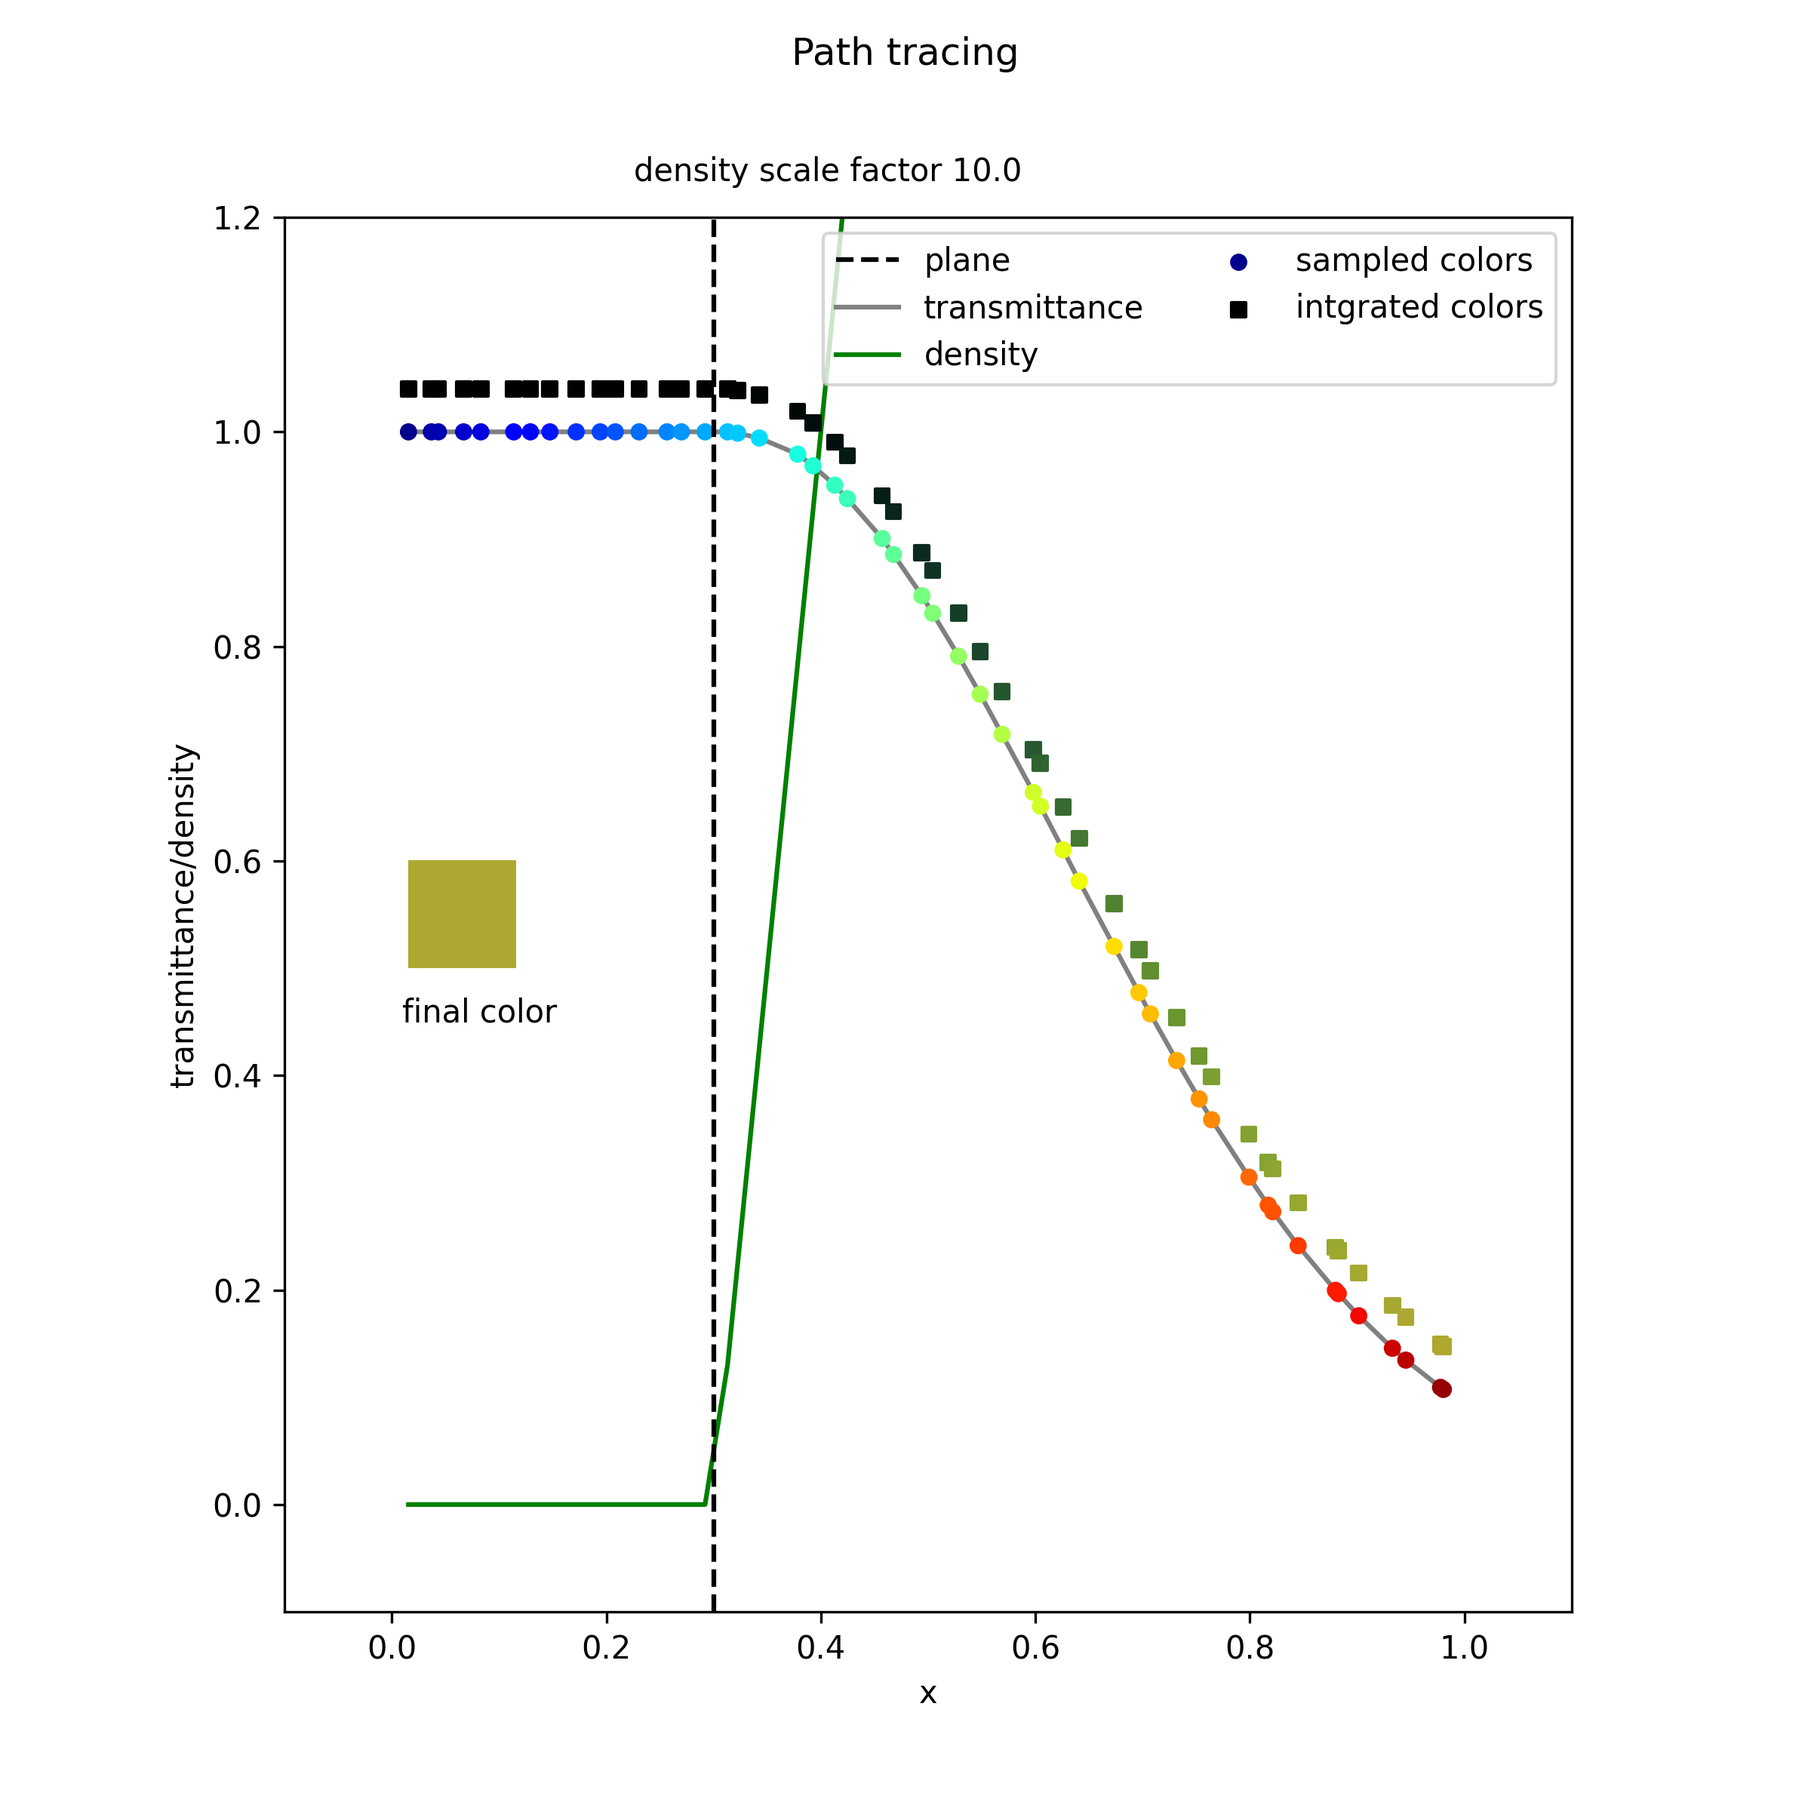
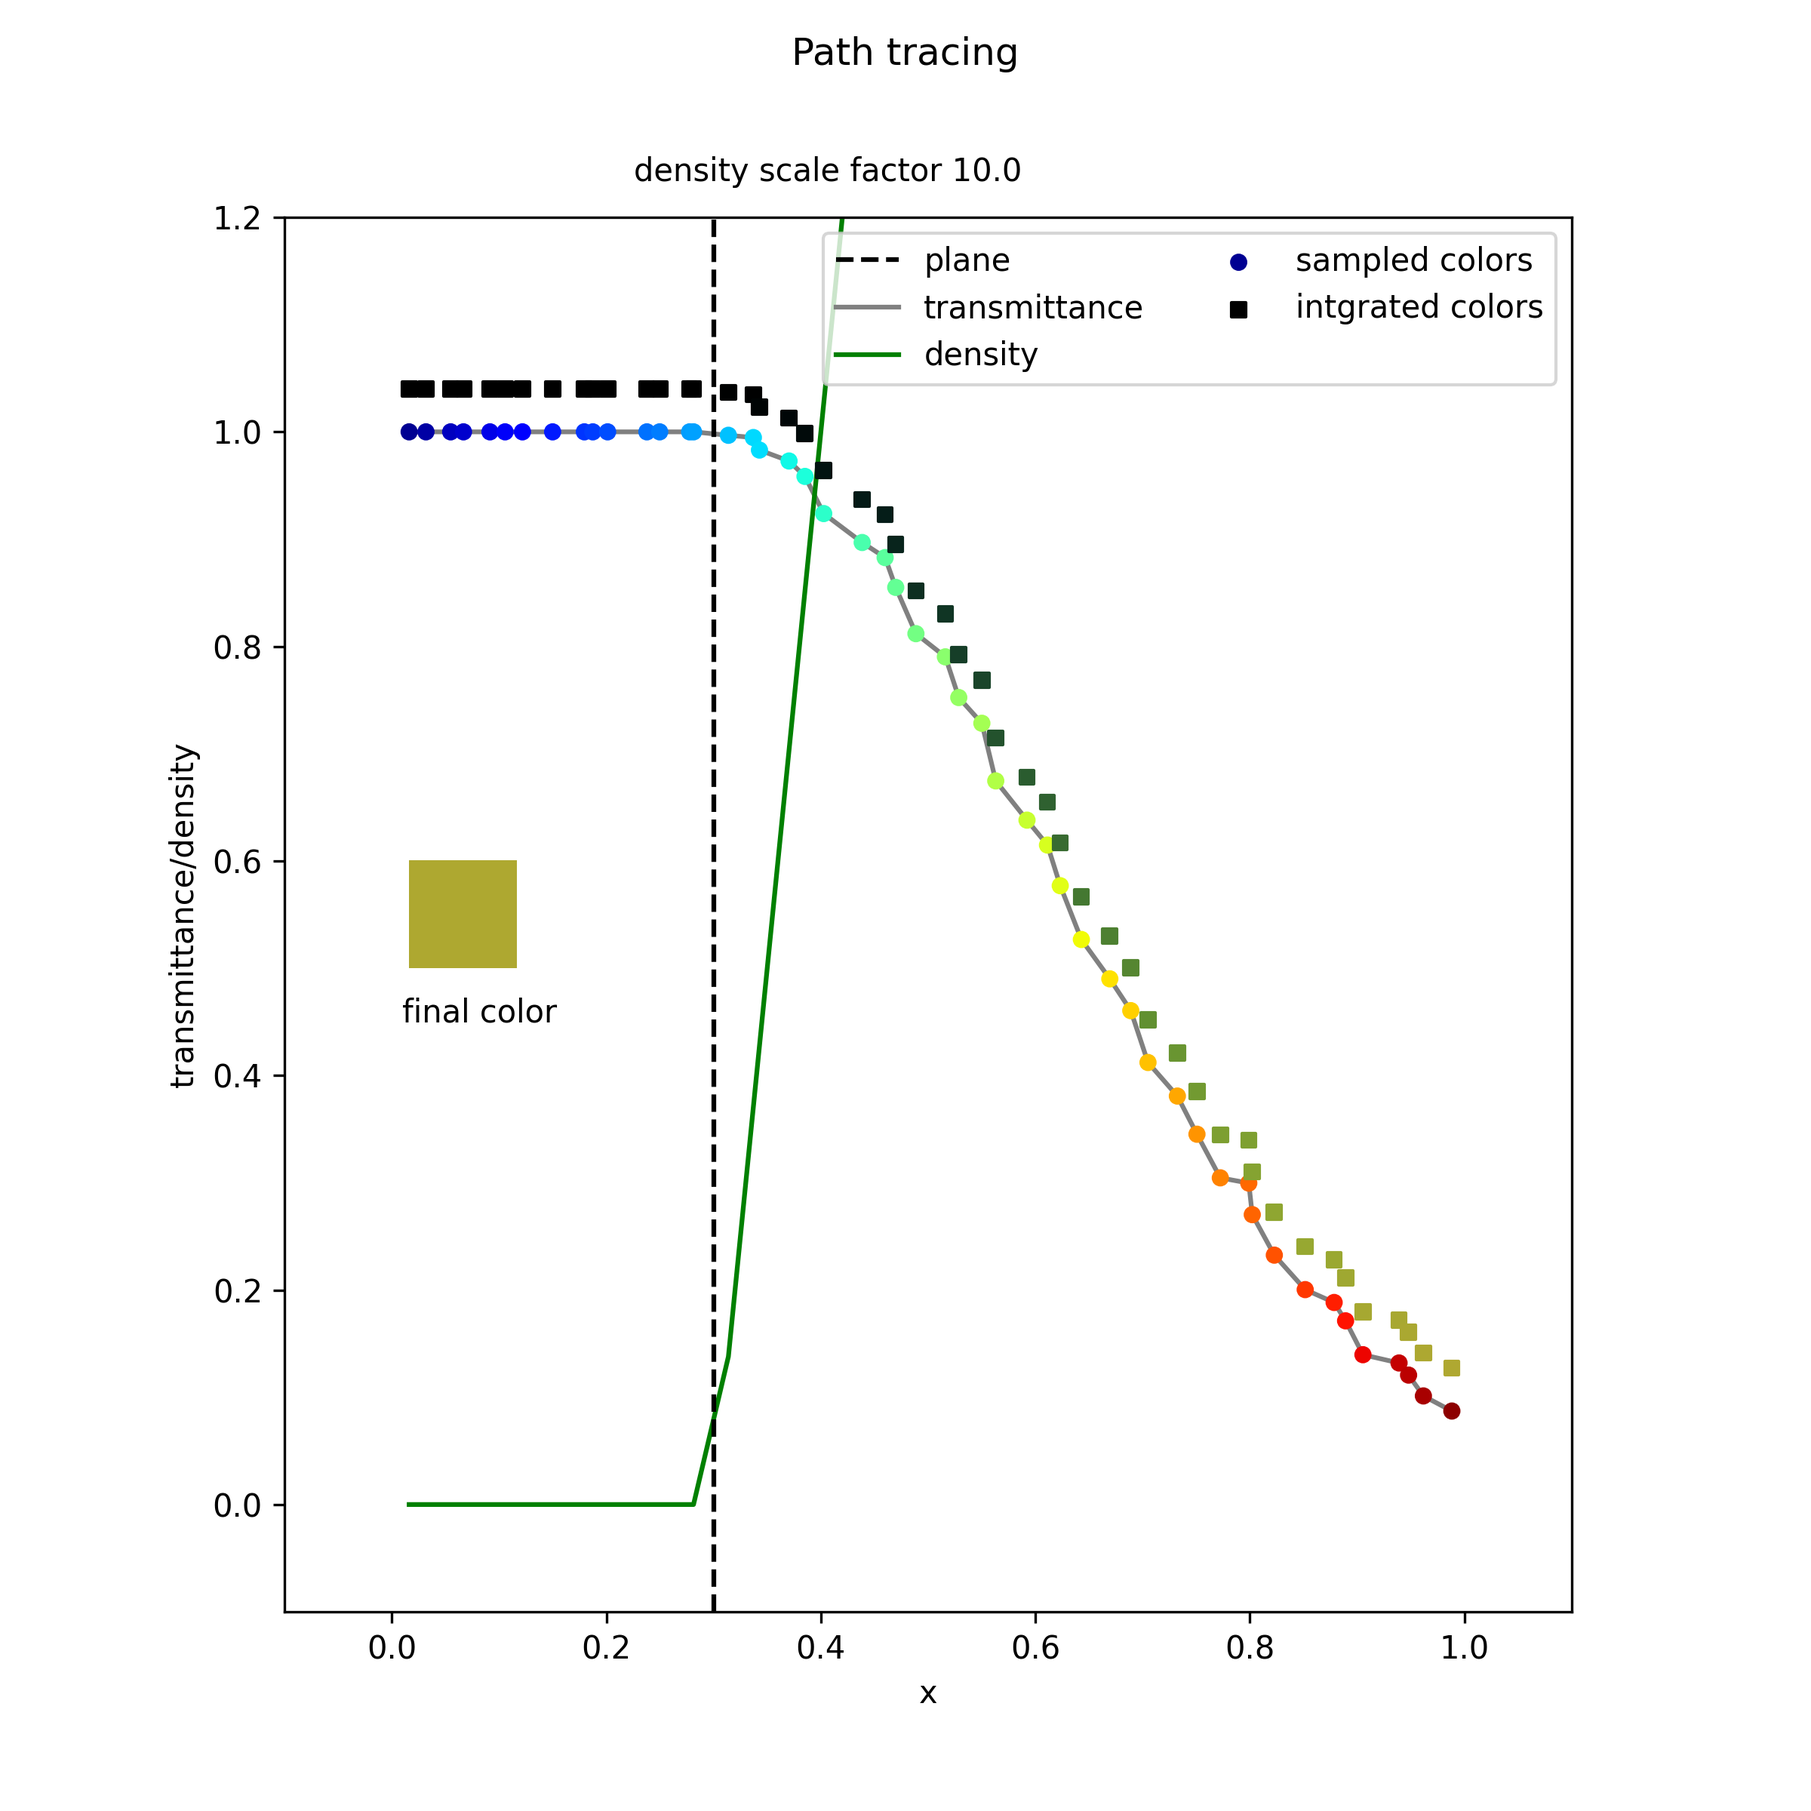
new integration of timesteps; support for colors, alpha and depth.

Changed region(s): [[0.2188, 0.1875, 0.8125, 0.7812], [0.375, 0.75, 0.4062, 0.8438]]

diff --git a/torchngp/radiance.py b/torchngp/radiance.py
@@ -1,7 +1,6 @@
 from typing import Union, Optional, Protocol
 
 import torch
-import math
 import torch.nn
 import torch.nn.functional as F
 
@@ -64,96 +63,129 @@ class RadianceField(Protocol):
         ...
 
 
-def integrate_path_density(
+def integrate_timesteps(
     sigma: torch.Tensor,
     ts: torch.Tensor,
-) -> torch.Tensor:
-    """Computes the log-transmittance along ray sample steps.
+    dnorm: torch.Tensor,
+    tfinal: Union[float, torch.Tensor] = 1e7,
+):
+    """Computes the timestep weights for multiple rays.
 
-    Params:
-        sigma: (T,N,...,1) volume density for each ray (N,...) and step (T,).
-        ts: (T+1,N,...,1) parametric ray time step values. We need one more than
-            actual samples to be computed. Usually this is set to ray tfar.
-
-    Returns:
-        log_transmittance: (T+1,N,...,1) accumulated log-transmittance
-            per sample step. At index t we have the log-transmittance
-            accumulated up to the t-th time step position.
-
-    References:
-        [1] NeRF: Representing Scenes as
-        Neural Radiance Fields for View Synthesis
-        https://arxiv.org/pdf/2003.08934.pdf
-    """
-    eps = torch.finfo(ts.dtype).eps
-
-    # delta[i] is defined as the segment lengths between ts[i+1] and ts[i]
-    delta = ts[1:] - ts[:-1]  # (T+1,N,...,1) -> (T,N,...,1)
-
-    # Eps is necessary because in testing sigma is often inf and if delta
-    # is zero then 0.0*float('inf')=nan
-    sigma_delta = sigma * (delta + eps)
-
-    # We construct a full-cumsum which has the following form
-    # full_cumsum([1,2,3]) = [0,1,3,6]
-    sigma_delta = F.pad(
-        sigma_delta,
-        (0,) * 2 * (sigma.dim() - 1) + (1, 0),
-        mode="constant",
-        value=0.0,
-    )
-    log_transm = -sigma_delta.cumsum(0)  # (T+1,N,...,1)
-
-    return log_transm
-
-
-def integrate_path(
-    color: torch.Tensor,
-    sigma: torch.Tensor,
-    ts: torch.Tensor,
-    prev_log_transmittance: Union[torch.Tensor, float] = 0.0,
-) -> tuple[torch.Tensor, torch.Tensor]:
-    """Integrates the color integral for multiple rays.
-
-    This implementation is a batched version of equations (1,3) in [1]. In
-    addition this method allows the specification of an initial log-transmittance,
-    which allows evaluating the integral in parts. This is particularly useful
-    for incremental computations, such as determining early ray terminations.
-
-        T(i)*alpha(i) = exp(-log_T(i-1))*(1-(ts(i+1)-ts(i))*sigma(i))
-                      = exp(-log_T(i-1)) - exp(-log_T(i))
+    This implementation is a batched version of equations (1,3) in [1]. In particular
+    it computes the weights for timestep `i` as follows
+        weights(i)  = T(i)*alpha(i)
+                    = exp(-log_T(i-1))*(1-(ts(i+1)-ts(i))*sigma(i))
+                    = exp(-log_T(i-1)) - exp(-log_T(i))
     with
         log_T(i) = cumsum([0,(ts(1)-ts(0))*sigma(0),...,(ts(-1)-ts(-2))*sigma(-1))])
 
     Params:
-        color: (T,N,...,C) color samples C for (N,...) rays at steps (T,).
-        sigma: (T,N,...,1) volume density for each ray (N,...) and step (T,).
-        ts: (T+1,N,...,1) parametric ray time step values. We need one more than
-            actual samples to be computed. Usually this is set to ray tfar.
-        prev_log_transmittance: (1,N,...,1) or broadcastable initial log
-            transmittance values per ray. Useful when combining colors from
-            several path parts.
-
+        sigma: (T,N,...,1) volume density for each ray (N,...) and timestep (T,).
+        ts: (T,N,...,1) ray timestep values.
+        dnorm: (N,...,1) ray direction norms. Used for conversion of timestep units
+            to real world units.
+        tfinal: float or (N,...,1) tensor of one beyond last timestep values.
     Returns:
-        color: (T,N,...,C) accumulated colors per sample step
-        log_transmittance: (T+1,N,...,1) accumulated log-transmittance
-            per sample step. At index t we have the log-transmittance
-            accumulated up to the t-th time step position.
+        weights: (T,N,...,1) weights for each timestep.
 
     References:
         [1] NeRF: Representing Scenes as
         Neural Radiance Fields for View Synthesis
         https://arxiv.org/pdf/2003.08934.pdf
     """
-    log_transm = integrate_path_density(sigma=sigma, ts=ts)  # (T+1,N,...,1)
-    total_transm = (prev_log_transmittance + log_transm).exp()
+
+    eps = torch.finfo(ts.dtype).eps
+    batch_shape = ts.shape[1:]
+
+    # delta[i] is defined as the segment lengths between ts[i+1] and ts[i]
+    # we add a tfinal value far beyond reach which boosts the last element in
+    # integration.
+    if not torch.is_tensor(tfinal):
+        tfinal = ts.new_tensor(1e7).expand(batch_shape)
+    ts = torch.cat((ts, tfinal.unsqueeze(0)), 0)
+    delta = ts[1:] - ts[:-1]  # (T+1,N,...,1) -> (T,N,...,1)
+
+    # Account for un-normalized ray direction lengths.
+    # TODO: add note about z-stepping and depthmaps
+    delta = delta * dnorm.unsqueeze(0)
+
+    # Eps is necessary because in testing sigma is often inf and if delta
+    # is zero then 0.0*float('inf')=nan
+    sigma_mul_delta = sigma * (delta + eps)  # (T,N,...,1)
+
+    # We construct a full-cumsum which has the following form
+    # full_cumsum([1,2,3]) = [0,1,3,6]
+    sigma_delta = F.pad(
+        sigma_mul_delta,
+        (0,) * 2 * (sigma.dim() - 1) + (1, 0),
+        mode="constant",
+        value=0.0,
+    )
+    log_transmittance = -sigma_delta.cumsum(0)  # (T+1,N,...,1)
+    transmittance = log_transmittance.exp()
 
     # T(i)*alpha(i) when multiplied equals the following
-    weights = total_transm[:-1] - total_transm[1:]  # (T,N,...,1)
+    weights = transmittance[:-1] - transmittance[1:]  # (T,N,...,1)
 
-    integrated_colors = (weights * color).cumsum(0)
+    return weights
 
-    return integrated_colors, log_transm
+
+def color_map(
+    ts_color: torch.Tensor, ts_weights: torch.Tensor, per_timestep: bool = False
+) -> torch.Tensor:
+    """Computes the RGB color map.
+
+    Params:
+        ts_color: (T,N,...,C) color samples
+        ts_weights: (T,N,...,1) integration weights
+        per_timestep: When true, returns the colors
+            as they accumulate over time.
+
+    Returns:
+        color_map: (N,...,C) final colors or (T,N,...,C) when per_timestep
+            is enabled.
+    """
+    color = ts_color * ts_weights
+    return color.cumsum(0) if per_timestep else color.sum(0)
+
+
+def alpha_map(ts_weights: torch.Tensor, per_timestep: bool = False) -> torch.Tensor:
+    """Computes the alpha map.
+
+    Params:
+        ts_weights: (T,N,...,1) integration weights
+        per_timestep: When true, returns the alpha
+            as its accumulate over time.
+
+    Returns:
+        alpha_map: (N,...,1) or (T,N,...,1) alpha values in range [0,1].
+            High values indicate opaque regions, wheras low values indicate
+            regions of large amounts of transmittance.
+    """
+    ts_acc = ts_weights.cumsum(0) if per_timestep else ts_weights.sum(0)
+    return ts_acc
+
+
+def depth_map(
+    ts: torch.Tensor, ts_weights: torch.Tensor, per_timestep: bool = False
+) -> torch.Tensor:
+    """Estimates a depth map.
+
+    For this method to work correctly, the ray directions are not supposed
+    to be normalized. This ensures that ts are actually steps in z-direction
+    of the camera for all rays.
+
+    Params:
+        ts: (T,N,...,1) ray timestep values
+        ts_weights: (T,N,...,1) integration weights
+        per_timestep: When true, returns the colors
+            as they accumulate over time.
+
+    Returns:
+        depth_map: (N,...,1) or (T,N,...,1) depth map
+    """
+    depth = ts_weights * ts
+    return depth.cumsum(0) if per_timestep else depth.sum(0)
 
 
 def rasterize_field(

diff --git a/torchngp/tests/test_radiance.py b/torchngp/tests/test_radiance.py
@@ -60,7 +60,7 @@ class ColorGradientRadianceField(radiance.RadianceField):
         return color, density
 
 
-def test_radiance_integrate_path():
+def test_radiance_integrate_timesteps():
     o = torch.tensor([[0.0, 0.0, 0.0]])
     d = torch.tensor([[1.0, 0.0, 0.0]])
 
@@ -76,10 +76,12 @@ def test_radiance_integrate_path():
         cmap="gray",
     )
 
-    ts_padded = torch.cat((ts, torch.tensor(1.0).view(1, 1, 1)), 0)
-    color, density = rf(nxyz)
-    out_colors, log_transmittance = radiance.integrate_path(color, density, ts_padded)
-    assert_close(out_colors[-1], torch.tensor([[0.2, 0.2, 0.2]]))
+    ts_color, ts_density = rf(nxyz)
+    ts_weights = radiance.integrate_timesteps(
+        ts_density, ts, torch.tensor([[1.0]]), tfinal=1.0
+    )
+    final_color = radiance.color_map(ts_color, ts_weights)
+    assert_close(final_color, torch.tensor([[0.2, 0.2, 0.2]]))
 
     # Test soft transit and move plane
     rf = ColorGradientRadianceField(
@@ -87,54 +89,13 @@ def test_radiance_integrate_path():
         density_scale=1000.0,  # soft surface boundary
         cmap="gray",
     )
-    color, density = rf(nxyz)
-    out_colors, log_transmittance = radiance.integrate_path(
-        color, density, ts_padded, 0
+    ts_color, ts_density = rf(nxyz)
+    ts_weights = radiance.integrate_timesteps(
+        ts_density, ts, torch.tensor([[1.0]]), tfinal=1.0
     )
+    final_color = radiance.color_map(ts_color, ts_weights)
 
-    assert ((out_colors[-1] > 0.5) & (out_colors[-1] < 0.6)).all()
-
-
-def test_radiance_integrate_path_in_parts():
-
-    ts = torch.rand(30, 20, 1)
-    ts_padded = torch.cat((ts, torch.tensor(1.0).view(1, 1, 1).expand(1, 20, 1)), 0)
-    color = torch.randn(30, 20, 3)
-    density = torch.rand(30, 20, 1) * 1e-1
-
-    full_colors, full_log_transmittance = radiance.integrate_path(
-        color, density, ts_padded
-    )
-
-    # Compare with part based intrg
-    color_parts = []
-    log_transm_parts = []
-
-    prev_log_transm = 0.0
-    prev_color = 0.0
-    for i in [0, 10, 20]:
-        colors, log_transm = radiance.integrate_path(
-            color[i : i + 10],
-            density[i : i + 10],
-            ts_padded[i : i + 11],
-            prev_log_transmittance=prev_log_transm,
-        )
-        colors = colors + prev_color
-        log_transm = log_transm + prev_log_transm
-        color_parts.append(colors)
-        if i == 20:
-            log_transm_parts.append(log_transm)
-        else:
-            log_transm_parts.append(log_transm[:-1])
-        prev_color = colors[-1:].clone()
-        prev_log_transm = log_transm[-1:].clone()
-
-    part_colors = torch.cat(color_parts, 0)
-
-    part_log_transmittance = torch.cat(log_transm_parts, 0)
-
-    assert_close(full_log_transmittance, part_log_transmittance)
-    assert_close(full_colors, part_colors)
+    assert ((final_color > 0.5) & (final_color < 0.6)).all()
 
 
 def test_radiance_rasterize_field():

diff --git a/scripts/visualize_path_tracing.py b/scripts/visualize_path_tracing.py
@@ -8,6 +8,7 @@ from torchngp import radiance, geometric, sampling
 def plot_density_scale(ds, show=True):
     o = torch.tensor([[-1.0, 0.0, 0.0]])
     d = torch.tensor([[1.0, 0.0, 0.0]])
+    dnorm = torch.tensor([[1.0]])
 
     plane_n = torch.tensor([1.0, 0.0, 0.0])
     plane_o = torch.tensor([0.3, 0.0, 0.0])
@@ -26,10 +27,10 @@ def plot_density_scale(ds, show=True):
     density[mask] = 0.0
     density[~mask] *= ds
 
-    out_color, out_log_transm = radiance.integrate_path(
-        color[..., :3], density, torch.cat((ts, tfar.unsqueeze(0)), 0)
-    )
-    out_transm = out_log_transm.exp()
+    ts_weights = radiance.integrate_timesteps(density, ts, dnorm, tfinal=tfar + 1e-2)
+    out_color = radiance.color_map(color[..., :3], ts_weights, per_timestep=True)
+    out_transm = 1.0 - radiance.alpha_map(ts_weights, per_timestep=True)
+
     fig, ax = plt.subplots(figsize=(8, 8))
     fig.text(0.35, 0.9, f"density scale factor {ds:.1f}")
     ax.vlines(
@@ -37,7 +38,7 @@ def plot_density_scale(ds, show=True):
     )
 
     shifted_ts = ts[:, 0] - tnear[0, 0]
-    ax.plot(shifted_ts, out_transm[:-1, 0], c="gray", label="transmittance")
+    ax.plot(shifted_ts, out_transm[:, 0], c="gray", label="transmittance")
     ax.plot(
         shifted_ts,
         density[:, 0],
@@ -52,7 +53,7 @@ def plot_density_scale(ds, show=True):
     plt.text(0.01, 0.45, "final color")
     ax.scatter(
         shifted_ts,
-        out_transm[:-1, 0],
+        out_transm[:, 0],
         c=color[:, 0],
         s=20,
         zorder=2,
@@ -60,7 +61,7 @@ def plot_density_scale(ds, show=True):
     )
     ax.scatter(
         shifted_ts,
-        out_transm[:-1, 0] + 0.04,
+        out_transm[:, 0] + 0.04,
         c=out_color[:, 0],
         s=20,
         marker="s",
@@ -82,6 +83,7 @@ def plot_density_scale(ds, show=True):
 
 
 def main():
+    _ = plot_density_scale(1)
     _ = plot_density_scale(10)
     _ = plot_density_scale(100)
     _ = plot_density_scale(float("inf"))

diff --git a/torchngp/rendering.py b/torchngp/rendering.py
@@ -41,21 +41,21 @@ class RadianceRenderer:
             active_rays.tnear, active_rays.tfar, n_samples=128
         )  # TODO: in sample consider that we are not having normalized dirs
 
-        sample_color, sample_density = self._query_radiance_field(active_rays, ts)
+        ts_color, ts_density = self._query_radiance_field(active_rays, ts)
 
         # Integrate colors along rays
-        int_color, int_logtransm = radiance.integrate_path(
-            sample_color,
-            sample_density,
-            torch.cat((ts, booster * active_rays.tfar.unsqueeze(0)), 0),
+        ts_weights = radiance.integrate_timesteps(
+            ts_density, ts, active_rays.dnorm, tfinal=active_rays.tfar * booster
         )
+        ts_final_color = radiance.color_map(ts_color, ts_weights)
+        ts_final_alpha = radiance.alpha_map(ts_weights)
 
         # Output (N,...,C), (N,...,1)
-        out_color = sample_color.new_zeros(batch_shape + (int_color.shape[-1],))
-        out_alpha = sample_density.new_zeros(batch_shape + (1,))
+        out_color = ts_color.new_zeros(batch_shape + (ts_final_color.shape[-1],))
+        out_alpha = ts_density.new_zeros(batch_shape + (1,))
 
-        out_color[active_mask] = int_color[-1]
-        out_alpha[active_mask] = 1 - int_logtransm[-2].exp()
+        out_color[active_mask] = ts_final_color
+        out_alpha[active_mask] = ts_final_alpha
 
         return out_color, out_alpha
 
@@ -89,12 +89,6 @@ class RadianceRenderer:
         out_color[mask] = color.to(out_color.dtype)
         out_density[mask] = density.to(density.dtype)
         return out_color, out_density
-
-    def _sample_ts(self, rays: geometric.RayBundle) -> torch.Tensor:
-        # max_length = max(ray_lengths.max().item(), 0.0)
-        # n_samples = int(max_length / ray_td)
-
-        return sampling.sample_ray_step_stratified(rays.tnear, rays.tfar, n_samples=128)
 
     def render_camera_views(
         self,
